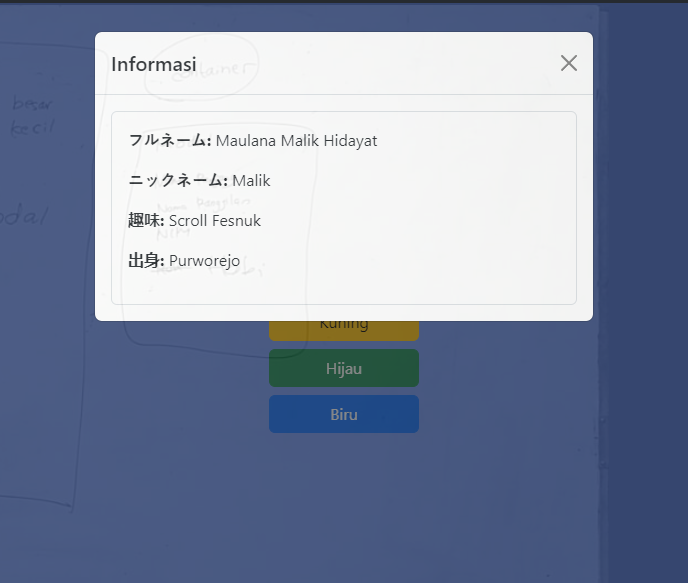
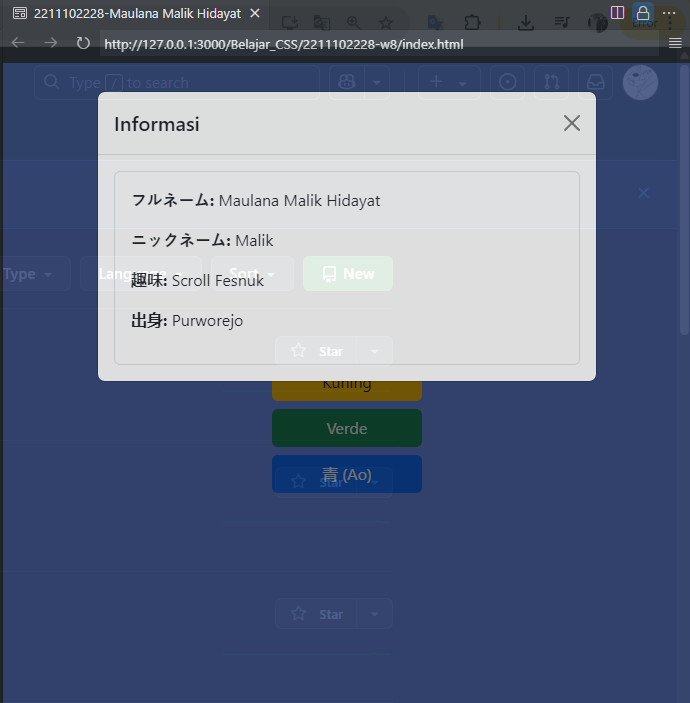
cihuyy

diff --git a/index.html b/index.html
@@ -3,7 +3,7 @@
 <head>
   <meta charset="UTF-8" />
   <meta name="viewport" content="width=device-width, initial-scale=1" />
-  <title>2211102253 / W8</title>
+  <title>2211102228-Maulana Malik Hidayat</title>
   <link href="https://cdn.jsdelivr.net/npm/bootstrap@5.3.2/dist/css/bootstrap.min.css" rel="stylesheet" />
 </head>
 <body>
@@ -35,10 +35,10 @@
 
     <!-- Tombol warna -->
     <div class="d-flex flex-column align-items-center mb-5" style="width: 150px; margin: 0 auto;">
-      <button id="btn-red"    class="btn btn-danger mb-2 w-100">Merah</button>
+      <button id="btn-red"    class="btn btn-danger mb-2 w-100">Red</button>
       <button id="btn-yellow" class="btn btn-warning mb-2 w-100">Kuning</button>
-      <button id="btn-green"  class="btn btn-success mb-2 w-100">Hijau</button>
-      <button id="btn-blue"   class="btn btn-primary mb-2 w-100">Biru</button>
+      <button id="btn-green"  class="btn btn-success mb-2 w-100">Verde</button>
+      <button id="btn-blue"   class="btn btn-primary mb-2 w-100">青 (Ao)</button>
     </div>
   </div>
 
